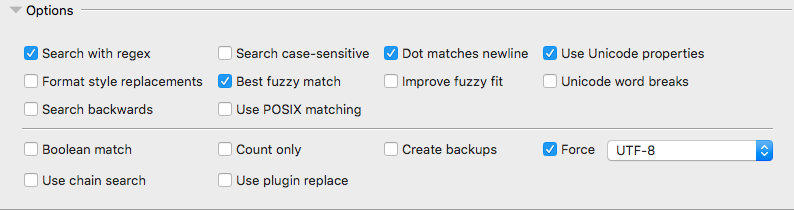
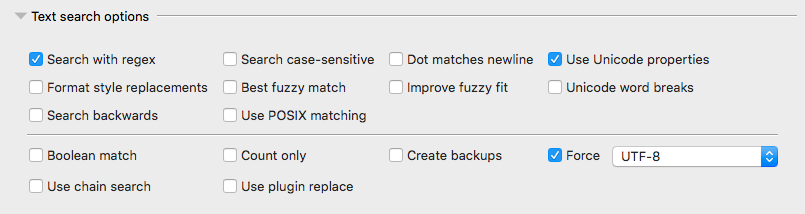
Beta (#321)
* Adjust documentation and small tweaks to GUI

Use a right facing arrow when collapsible panels are closed.
Rename collapsible panel labels.
Update documentation and related images.
Prep for a beta.

* Update internal docs

diff --git a/rummage/lib/gui/data/docs/usage.html b/rummage/lib/gui/data/docs/usage.html
@@ -45,11 +45,11 @@
       <li class="__toc_level_2"><a href="#searching--replacing">Searching &amp; Replacing</a></li>
       <ul class="__toc_list_2">
       
-      <li class="__toc_level_3"><a href="#search-panel">Search Panel</a></li>
+      <li class="__toc_level_3"><a href="#configuring-text-search">Configuring Text Search</a></li>
       <ul class="__toc_list_3">
       
       </ul>
-      <li class="__toc_level_3"><a href="#limit-search-panel">Limit Search Panel</a></li>
+      <li class="__toc_level_3"><a href="#configuring-file-search">Configuring File Search</a></li>
       <ul class="__toc_list_3">
       
       </ul>
@@ -107,19 +107,24 @@
 
 <h2 id="searching--replacing">Searching &amp; Replacing</h2>
 <p><img alt="Search Tab" src="images/search_tab.png" /></p>
-<p>Search and replaces are configured in the <strong>Search</strong> tab which is broken up into 2 panels, the first of which is the <strong>Search &amp; Replace</strong> panel. The second is the <strong>Limit Search</strong> panel.</p>
-<h3 id="search-panel">Search Panel</h3>
-<p><img alt="Search and Replace Panel" src="images/search_replace_inputs.png" /></p>
-<p>The <strong>Search &amp; Replace</strong> panel contains three text boxes with a dropdown history. The first text box defines <strong>where to search</strong>, the second defines <strong>what to search for</strong>, and the last defines <strong>what to replace matches with</strong>.  You can select previously used patterns and search targets by expanding the dropdown panel for the input.</p>
-<p>Below the text boxes are checkboxes that control the regular expression engine's options and features.</p>
+<p>Search and replaces are configured in the <strong>Search</strong> tab. The search tab can essentially be broken up into two sections: text search configuration and file search configuration.</p>
+<h3 id="configuring-text-search">Configuring Text Search</h3>
+<p><img alt="Search and Replace Inputs" src="images/search_replace_inputs.png" /></p>
+<p>The first part of the <strong>Search</strong> tab contains mostly text search inputs, with the exception of the very first control, which is used to configure where to search. The second text box is used to specify what we are searching for in the content of each file. The last text box specified what we want to replace the found text with. Each text box retains a limit history of recent inputs that can be accessed via the drop down control to the right.</p>
+<p>The replace text box is only needed if you are performing a replace. The search input can also be omitted, and if so, Rummage will simply return files that match the provided file patterns (covered in <a href="#configuring-file-search">Configuring File Search</a>).</p>
+<p>Below the text boxes is a collapsible panel that contains the text search options. The options consist of various checkboxes and controls that enable/disable search and replace features. The available features will vary depending on which regular expression engine you are using. Each feature is documented in <a href="search.html#search-options">Search Options</a>.</p>
 <p><img alt="Search and Replace Checkboxes" src="images/search_replace_panel.png" /></p>
-<p>The available features will vary depending on which regular expression engine you are using. Each feature is documented in <a href="search.html#search-options">Search Options</a>.</p>
 <p>Lastly, Rummage provides buttons to launch a <a href="#regular-expression-tester">regular expression tester</a>, dialogs to <a href="#saving-and-loading-regular-expressions">save or load</a> frequently used regular expressions, and a dialog to create and manage <a href="#search-chains">regular expression chains</a>.</p>
 <p><img alt="Regular Expression Buttons" src="images/regex_buttons.png" /></p>
-<h3 id="limit-search-panel">Limit Search Panel</h3>
-<p><img alt="Limit Search Panel" src="images/limit_search_panel.png" /></p>
-<p>The <strong>Limit Search</strong> panel contains checkboxes and inputs that filter the files to be searched.  You can filter out hidden files, symlinks, files of specific sizes, or creation/modification dates.</p>
-<p>You can also restrict which files get searched by providing a wild card (or regular expression if preferred) pattern. By default, the patterns are applied to the base file or folder name. See <a href="search.html#wildcard">File Patterns</a> to learn more about accepted wild card pattern syntax and how to configure optional file pattern features.</p>
+<h3 id="configuring-file-search">Configuring File Search</h3>
+<p><img alt="File Search Inputs" src="images/limit_search_panel.png" /></p>
+<p>The bottom part of the search tab focuses on controlling which files get searched. Various checkboxes and inputs are available that can narrow the actual files that get searched. You can filter out hidden files, symlinks, files of specific sizes, or creation/modification dates.</p>
+<p>You can also restrict which files get searched by providing a wild card patterns (or regular expression if preferred). By default, the patterns are applied to the base file or folder name. See <a href="search.html#wildcard">File Patterns</a> to learn more about accepted wild card pattern syntax and how to configure optional file pattern features.</p>
+<div class="admonition tip">
+<p class="admonition-title">Hidden Files</p>
+<p>Rummage assumes dot files as hidden on all systems. Additionally, on Windows and macOS, it will also look at a
+file's filesystem attributes to determine if the system is potentially hiding the file as well.</p>
+</div>
 <div class="admonition new">
 <p class="admonition-title">New 4.4.0</p>
 <p>Added the symlink following via the <strong>Follow symlinks</strong> toggle.</p>
@@ -129,12 +134,12 @@
 <p><img alt="Files Tab" src="images/files_tab.png" /></p>
 <p><img alt="Content Tab" src="images/content_tab.png" /></p>
 <div class="admonition tip">
-<p class="admonition-title">Tip</p>
+<p class="admonition-title">Column Options</p>
 <p>You can hide/show columns by right clicking the list header to get a special context menu. You can then deselect or select the the column(s) you wish to hide/show respectively. You can also reorder the columns if desired.</p>
 </div>
 <h2 id="regular-expression-tester">Regular Expression Tester</h2>
 <p><img alt="Regex Tester" src="images/regex_tester.png" /></p>
-<p>Rummage comes with a simple regular expression tester. It has a simple text box to place content to search, and another text box that will show the final results after the find and replace are applied.  Below those text boxes, there are two text input boxes for the find pattern and the replace pattern.  Lastly, all search and replace flag options are found under the patterns.</p>
+<p>Rummage comes with a simple regular expression tester. It has a simple text box to place content to search, and another text box that will show the final results after the find and replace is applied.  Below those text boxes, there are two text input boxes for the find pattern and the replace pattern.  Lastly, all search and replace flag options are found under the patterns.</p>
 <p>To use the tester, simply enter the content to search, set your desired options, and input your find and replace pattern.  As you change your pattern or options, matches will be updated and highlighted, and the result box will be updated with any replacements.</p>
 <p>When you are satisfied with your result, click the <code>Use</code> button, and your pattern and settings will be populated in the main window.</p>
 <h2 id="saving-and-loading-regular-expressions">Saving and Loading Regular Expressions</h2>
@@ -148,7 +153,7 @@
 <p><img alt="Load Search" src="images/load_search.png" /></p>
 <h2 id="search-chains">Search Chains</h2>
 <p>There are times you may have a task that requires you to do multiple find and replaces that are all related, but are too difficult to represent as a single find and replace. This is where search chains can be helpful.</p>
-<p>Search chains are essentially a sequence of multiple <a href="#saving-and-loading-regular-expressions">saved search and replace patterns</a>. You can create a search chain by clicking the <code>Search Chains</code> button which will bring up the search change manager.</p>
+<p>Search chains are essentially a sequence of multiple <a href="#saving-and-loading-regular-expressions">saved search and replace patterns</a>. You can create a search chain by clicking the <code>Search Chains</code> button which will bring up the search chain manager.</p>
 <p><img alt="Chain Button" src="images/chain_button.png" /></p>
 <p>Here you can create or delete search chains.</p>
 <p><img alt="Search Chains" src="images/chains.png" /></p>
@@ -162,7 +167,7 @@
 <p>Replace plugins aren't meant to be full, complex modules that import lots of other relative files.  They are meant to be a single, compact script, but inside that script, you can import anything that is <em>already</em> installed in your Python environment.</p>
 <p><img alt="Enable Replace Plugin" src="images/plugin_input.png" /></p>
 <h3 id="writing-a-plugin">Writing a Plugin</h3>
-<p>Replace plugins should contain two things. The first is a plugin class derived from the <code>rummage.lib.rumcore.ReplacePlugin</code>.  The second is a function called <code>get_replace</code> that returns your class.</p>
+<p>Replace plugins should contain two things. The first is a plugin class derived from the <code>rummage.lib.rumcore.ReplacePlugin</code> class.  The second is a function called <code>get_replace</code> that returns your class.</p>
 <p>The plugin class is fairly straight forward and is shown below.</p>
 <div class="highlight"><pre><span></span><span class="k">class</span> <span class="nc">ReplacePlugin</span><span class="p">(</span><span class="nb">object</span><span class="p">):</span>
     <span class="sd">&quot;&quot;&quot;Rummage replace plugin.&quot;&quot;&quot;</span>

diff --git a/rummage/lib/gui/data/docs/search.html b/rummage/lib/gui/data/docs/search.html
@@ -212,7 +212,7 @@
 <ul>
 <li>File patterns are case insensitive by default, even for Linux/Unix systems. Case sensitivity can be enabled in <a href="preferences.html#search">Preferences</a>.</li>
 <li>Slashes are generally treated as normal characters, but on windows they will be normalized: <code>/</code> will become <code>\\</code>. There is no need to explicitly use <code>\\</code> in patterns on Windows, but if you do, it will be handled.</li>
-<li><code>.</code> is always matched by <code>*</code>, <code>?</code>, and <code>[]</code>. Enable searching hidden files in the <a href="usage.html#limit-search-panel">Limit Panel</a>.</li>
+<li><code>.</code> is always matched by <code>*</code>, <code>?</code>, and <code>[]</code>. Enable searching of hidden files in the file search options of the <a href="usage.html#configuring-file-search"><strong>Search</strong> tab</a>.</li>
 </ul>
 <h4 id="basic-wildcard-syntax">Basic Wildcard syntax</h4>
 <p>Rummage uses the <a href="https://github.com/facelessuser/wcmatch"><code>wcmatch</code></a> library to implement a specialized version of <a href="https://facelessuser.github.io/wcmatch/fnmatch/#syntax"><code>fnmatch</code></a> wildcard patterns for file name matching.</p>

diff --git a/rummage/lib/gui/data/docs/changelog.html b/rummage/lib/gui/data/docs/changelog.html
@@ -25,7 +25,7 @@
 
   <!-- Table of Content (Don't show for static sites) -->
     <h1 id="changelog">Changelog</h1>
-<h2 id="460-development">4.6.0 Development</h2>
+<h2 id="460b1">4.6.0b1</h2>
 <ul>
 <li><strong>NEW</strong>: Search options and file limit options can be collapsed in the main dialog. This allows  hiding these options if you aren't frequently using them, and provides a more compact dialog.</li>
 <li><strong>NEW</strong>: There is no longer an option to hide the file limit options as now you can just collapse them.</li>

diff --git a/rummage/lib/gui/controls/result_lists.py b/rummage/lib/gui/controls/result_lists.py
@@ -231,8 +231,8 @@ class ResultFileList(CommonOperationsMixin, DynamicList):
         self.images = wx.ImageList(16, 16)
         self.doc = self.images.Add(data.get_bitmap('doc.png'))
         self.bin = self.images.Add(data.get_bitmap('binary.png'))
-        self.sort_up = self.images.Add(data.get_bitmap('su.png', tint=data.RGBA(0x33, 0x33, 0x33, 0xFF)))
-        self.sort_down = self.images.Add(data.get_bitmap('sd.png', tint=data.RGBA(0x33, 0x33, 0x33, 0xFF)))
+        self.sort_up = self.images.Add(data.get_bitmap('arrow_up.png', tint=data.RGBA(0x33, 0x33, 0x33, 0xFF)))
+        self.sort_down = self.images.Add(data.get_bitmap('arrow_down.png', tint=data.RGBA(0x33, 0x33, 0x33, 0xFF)))
         self.AssignImageList(self.images, wx.IMAGE_LIST_SMALL)
 
     def set_international_time(self, enable):
@@ -582,8 +582,8 @@ class ResultContentList(CommonOperationsMixin, DynamicList):
         self.images = wx.ImageList(16, 16)
         self.doc = self.images.Add(data.get_bitmap('doc.png'))
         self.bin = self.images.Add(data.get_bitmap('binary.png'))
-        self.sort_up = self.images.Add(data.get_bitmap('su.png', tint=data.RGBA(0x33, 0x33, 0x33, 0xFF)))
-        self.sort_down = self.images.Add(data.get_bitmap('sd.png', tint=data.RGBA(0x33, 0x33, 0x33, 0xFF)))
+        self.sort_up = self.images.Add(data.get_bitmap('arrow_up.png', tint=data.RGBA(0x33, 0x33, 0x33, 0xFF)))
+        self.sort_down = self.images.Add(data.get_bitmap('arrow_down.png', tint=data.RGBA(0x33, 0x33, 0x33, 0xFF)))
         self.AssignImageList(self.images, wx.IMAGE_LIST_SMALL)
 
     def on_enter_window(self, event):

diff --git a/rummage/lib/gui/gui.py b/rummage/lib/gui/gui.py
@@ -98,7 +98,7 @@ class RummageFrame ( wx.Frame ):
 
         fgSizer2.Add( fgSizer8, 1, wx.EXPAND, 5 )
 
-        self.m_options_collapse = CollapsiblePane( self.m_settings_panel, wx.ID_ANY, u"Options", wx.DefaultPosition, wx.DefaultSize, wx.CP_DEFAULT_STYLE|wx.CP_NO_TLW_RESIZE )
+        self.m_options_collapse = CollapsiblePane( self.m_settings_panel, wx.ID_ANY, u"Text search options", wx.DefaultPosition, wx.DefaultSize, wx.CP_DEFAULT_STYLE|wx.CP_NO_TLW_RESIZE )
         self.m_options_collapse.Collapse( False )
 
         self.m_options_collapse.SetBackgroundColour( wx.SystemSettings.GetColour( wx.SYS_COLOUR_BTNFACE ) )
@@ -237,7 +237,7 @@ class RummageFrame ( wx.Frame ):
         self.m_staticline111 = wx.StaticLine( self.m_settings_panel, wx.ID_ANY, wx.DefaultPosition, wx.DefaultSize, wx.LI_HORIZONTAL )
         fgSizer2.Add( self.m_staticline111, 0, wx.EXPAND |wx.ALL, 5 )
 
-        self.m_limit_collapse = CollapsiblePane( self.m_settings_panel, wx.ID_ANY, u"Limit search", wx.DefaultPosition, wx.DefaultSize, wx.CP_DEFAULT_STYLE|wx.CP_NO_TLW_RESIZE )
+        self.m_limit_collapse = CollapsiblePane( self.m_settings_panel, wx.ID_ANY, u"File search", wx.DefaultPosition, wx.DefaultSize, wx.CP_DEFAULT_STYLE|wx.CP_NO_TLW_RESIZE )
         self.m_limit_collapse.Collapse( False )
 
         self.m_limit_collapse.SetBackgroundColour( wx.SystemSettings.GetColour( wx.SYS_COLOUR_BTNFACE ) )

diff --git a/rummage/lib/gui/controls/collapsible_pane.py b/rummage/lib/gui/controls/collapsible_pane.py
@@ -76,13 +76,13 @@ class CollapseButton(buttons.GenBitmapTextToggleButton):
         """Initialization."""
 
         super(CollapseButton, self).__init__(
-            parent, -1, bitmap=data.get_bitmap('sd.png'), label=label,
+            parent, -1, bitmap=data.get_bitmap('arrow_down.png'), label=label,
             style=wx.BORDER_NONE | wx.BU_EXACTFIT | wx.TAB_TRAVERSAL
         )
         self.SetBackgroundColour(wx.SystemSettings.GetColour(wx.SYS_COLOUR_BTNFACE))
         self.InitColours()
-        self.SetBitmapLabel(data.get_bitmap('sd.png', tint=self.tint))
-        self.SetBitmapSelected(data.get_bitmap('su.png', tint=self.tint))
+        self.SetBitmapLabel(data.get_bitmap('arrow_down.png', tint=self.tint))
+        self.SetBitmapSelected(data.get_bitmap('arrow_right.png', tint=self.tint))
         self.SetUseFocusIndicator(True)
 
     def InitColours(self):

diff --git a/rummage/lib/gui/controls/encoding_list.py b/rummage/lib/gui/controls/encoding_list.py
@@ -52,8 +52,8 @@ class EncodingList(DynamicList):
         self.images = wx.ImageList(16, 16)
         self.doc = self.images.Add(data.get_bitmap('doc.png'))
         self.bin = self.images.Add(data.get_bitmap('binary.png'))
-        self.sort_up = self.images.Add(data.get_bitmap('su.png', tint=data.RGBA(0x33, 0x33, 0x33, 0xFF)))
-        self.sort_down = self.images.Add(data.get_bitmap('sd.png', tint=data.RGBA(0x33, 0x33, 0x33, 0xFF)))
+        self.sort_up = self.images.Add(data.get_bitmap('arrow_up.png', tint=data.RGBA(0x33, 0x33, 0x33, 0xFF)))
+        self.sort_down = self.images.Add(data.get_bitmap('arrow_down.png', tint=data.RGBA(0x33, 0x33, 0x33, 0xFF)))
         self.AssignImageList(self.images, wx.IMAGE_LIST_SMALL)
 
     def get_item_text(self, item, col, absolute=False):

diff --git a/rummage/lib/gui/rummage_dialog.py b/rummage/lib/gui/rummage_dialog.py
@@ -501,7 +501,7 @@ class RummageFrame(gui.RummageFrame):
 
         # Controls
         self.SEARCH_REPLACE = _("Search and Replace")
-        self.LIMIT_SEARCH = _("Limit Search")
+        self.LIMIT_SEARCH = _("File search options")
         self.SEARCH_IN = _("Search in")
         self.SEARCH_FOR = _("Search for")
         self.SEARCH_CHAIN = _("Search chain")
@@ -540,7 +540,7 @@ class RummageFrame(gui.RummageFrame):
         self.SEARCH = _("Search")
         self.UP_TO_DATE = _("Current version is %s. Rummage is up to date!")
         self.NOT_UP_TO_DATE = _("There is an update available: %s.")
-        self.OPTIONS = _("Options")
+        self.OPTIONS = _("Text search options")
 
         # Menu
         self.MENU_EXPORT_RESULTS = _("Export Results")

diff --git a/rummage/lib/gui/controls/search_error_list.py b/rummage/lib/gui/controls/search_error_list.py
@@ -53,8 +53,8 @@ class ErrorList(DynamicList):
 
         self.images = wx.ImageList(16, 16)
         self.error_symbol = self.images.Add(data.get_bitmap('error.png'))
-        self.sort_up = self.images.Add(data.get_bitmap('su.png', tint=data.RGBA(0x33, 0x33, 0x33, 0xFF)))
-        self.sort_down = self.images.Add(data.get_bitmap('sd.png', tint=data.RGBA(0x33, 0x33, 0x33, 0xFF)))
+        self.sort_up = self.images.Add(data.get_bitmap('arrow_up.png', tint=data.RGBA(0x33, 0x33, 0x33, 0xFF)))
+        self.sort_down = self.images.Add(data.get_bitmap('arrow_down.png', tint=data.RGBA(0x33, 0x33, 0x33, 0xFF)))
         self.AssignImageList(self.images, wx.IMAGE_LIST_SMALL)
 
     def get_item_text(self, item, col, absolute=False):

diff --git a/rummage/lib/gui/controls/load_search_list.py b/rummage/lib/gui/controls/load_search_list.py
@@ -61,8 +61,8 @@ class SavedSearchList(DynamicList):
 
         self.images = wx.ImageList(16, 16)
         self.glass = self.images.Add(data.get_bitmap('glass.png'))
-        self.sort_up = self.images.Add(data.get_bitmap('su.png', tint=data.RGBA(0x33, 0x33, 0x33, 0xFF)))
-        self.sort_down = self.images.Add(data.get_bitmap('sd.png', tint=data.RGBA(0x33, 0x33, 0x33, 0xFF)))
+        self.sort_up = self.images.Add(data.get_bitmap('arrow_up.png', tint=data.RGBA(0x33, 0x33, 0x33, 0xFF)))
+        self.sort_down = self.images.Add(data.get_bitmap('arrow_down.png', tint=data.RGBA(0x33, 0x33, 0x33, 0xFF)))
         self.AssignImageList(self.images, wx.IMAGE_LIST_SMALL)
 
     def get_item_text(self, item, col, absolute=False):

diff --git a/rummage/lib/gui/controls/search_chain_list.py b/rummage/lib/gui/controls/search_chain_list.py
@@ -51,8 +51,8 @@ class SearchChainList(DynamicList):
 
         self.images = wx.ImageList(16, 16)
         self.glass = self.images.Add(data.get_bitmap('glass.png'))
-        self.sort_up = self.images.Add(data.get_bitmap('su.png', tint=data.RGBA(0x33, 0x33, 0x33, 0xFF)))
-        self.sort_down = self.images.Add(data.get_bitmap('sd.png', tint=data.RGBA(0x33, 0x33, 0x33, 0xFF)))
+        self.sort_up = self.images.Add(data.get_bitmap('arrow_up.png', tint=data.RGBA(0x33, 0x33, 0x33, 0xFF)))
+        self.sort_down = self.images.Add(data.get_bitmap('arrow_down.png', tint=data.RGBA(0x33, 0x33, 0x33, 0xFF)))
         self.AssignImageList(self.images, wx.IMAGE_LIST_SMALL)
 
     def get_item_text(self, item, col, absolute=False):

diff --git a/rummage/lib/__meta__.py b/rummage/lib/__meta__.py
@@ -187,7 +187,7 @@ def parse_version(ver, pre=False):
 
 
 #   (major, minor, micro, release type, pre-release build, post-release build, development-release)
-__version_info__ = Version(4, 6, 0, '.dev')
+__version_info__ = Version(4, 6, 0, 'beta', 1)
 __version__ = __version_info__._get_canonical()
 __app__ = "Rummage"
 __status__ = __version_info__[3]
